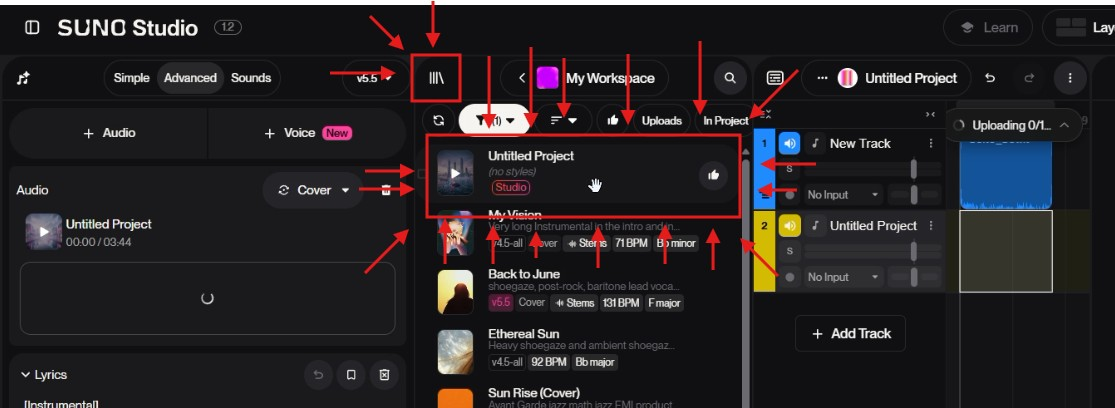
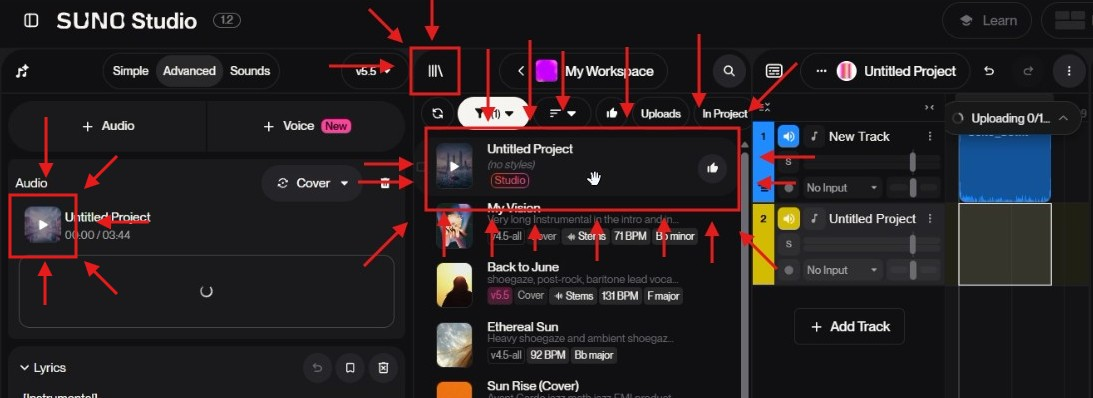
updated readme

diff --git a/README.md b/README.md
@@ -94,7 +94,7 @@ In the picker, find the uploaded song and choose it as the remix source.
 
 ### Step 11 — Confirm the uploaded audio is the source for the project
 
-After selecting it, the clip appears as the active audio source in the left panel. Keep the project in **Cover** mode as shown.
+After selecting it, press play once for the clip to appear in the library.
 
 ![Step 11](assets/images/step-11.jpg)
 